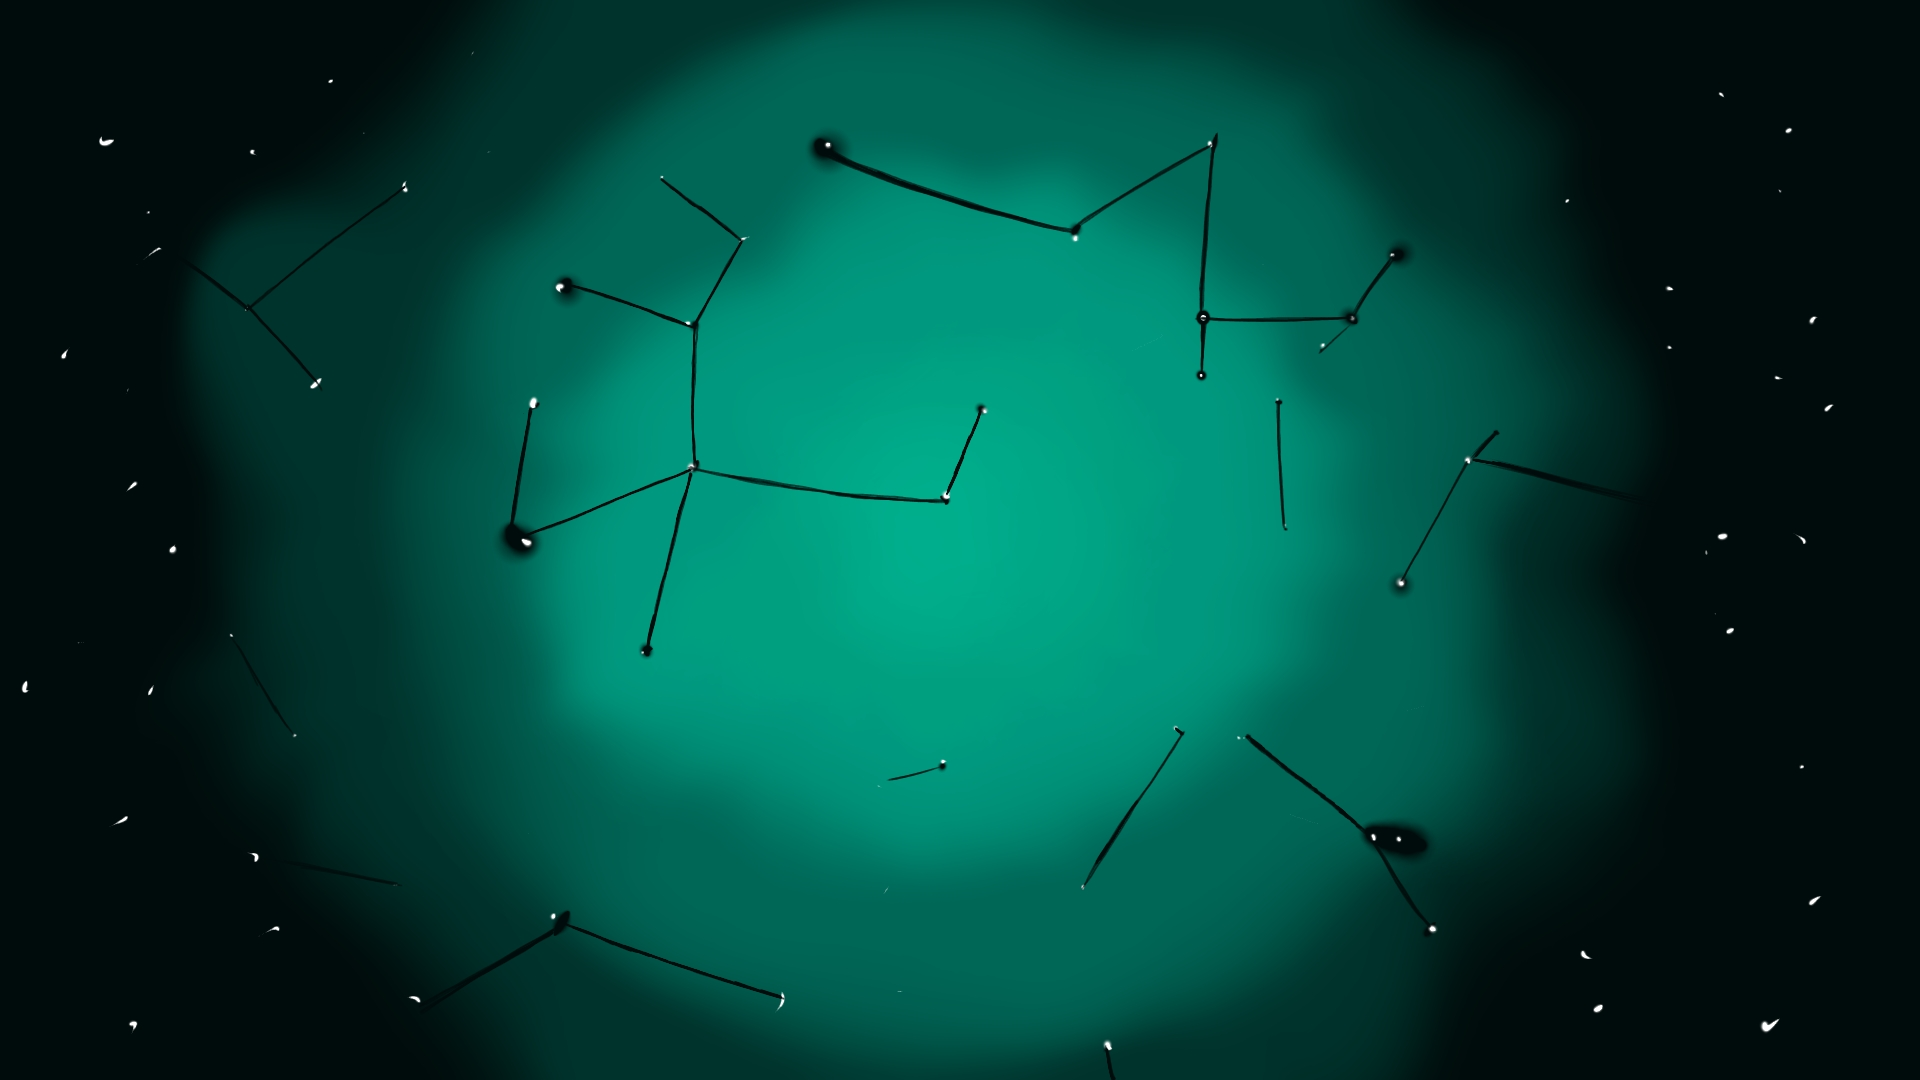
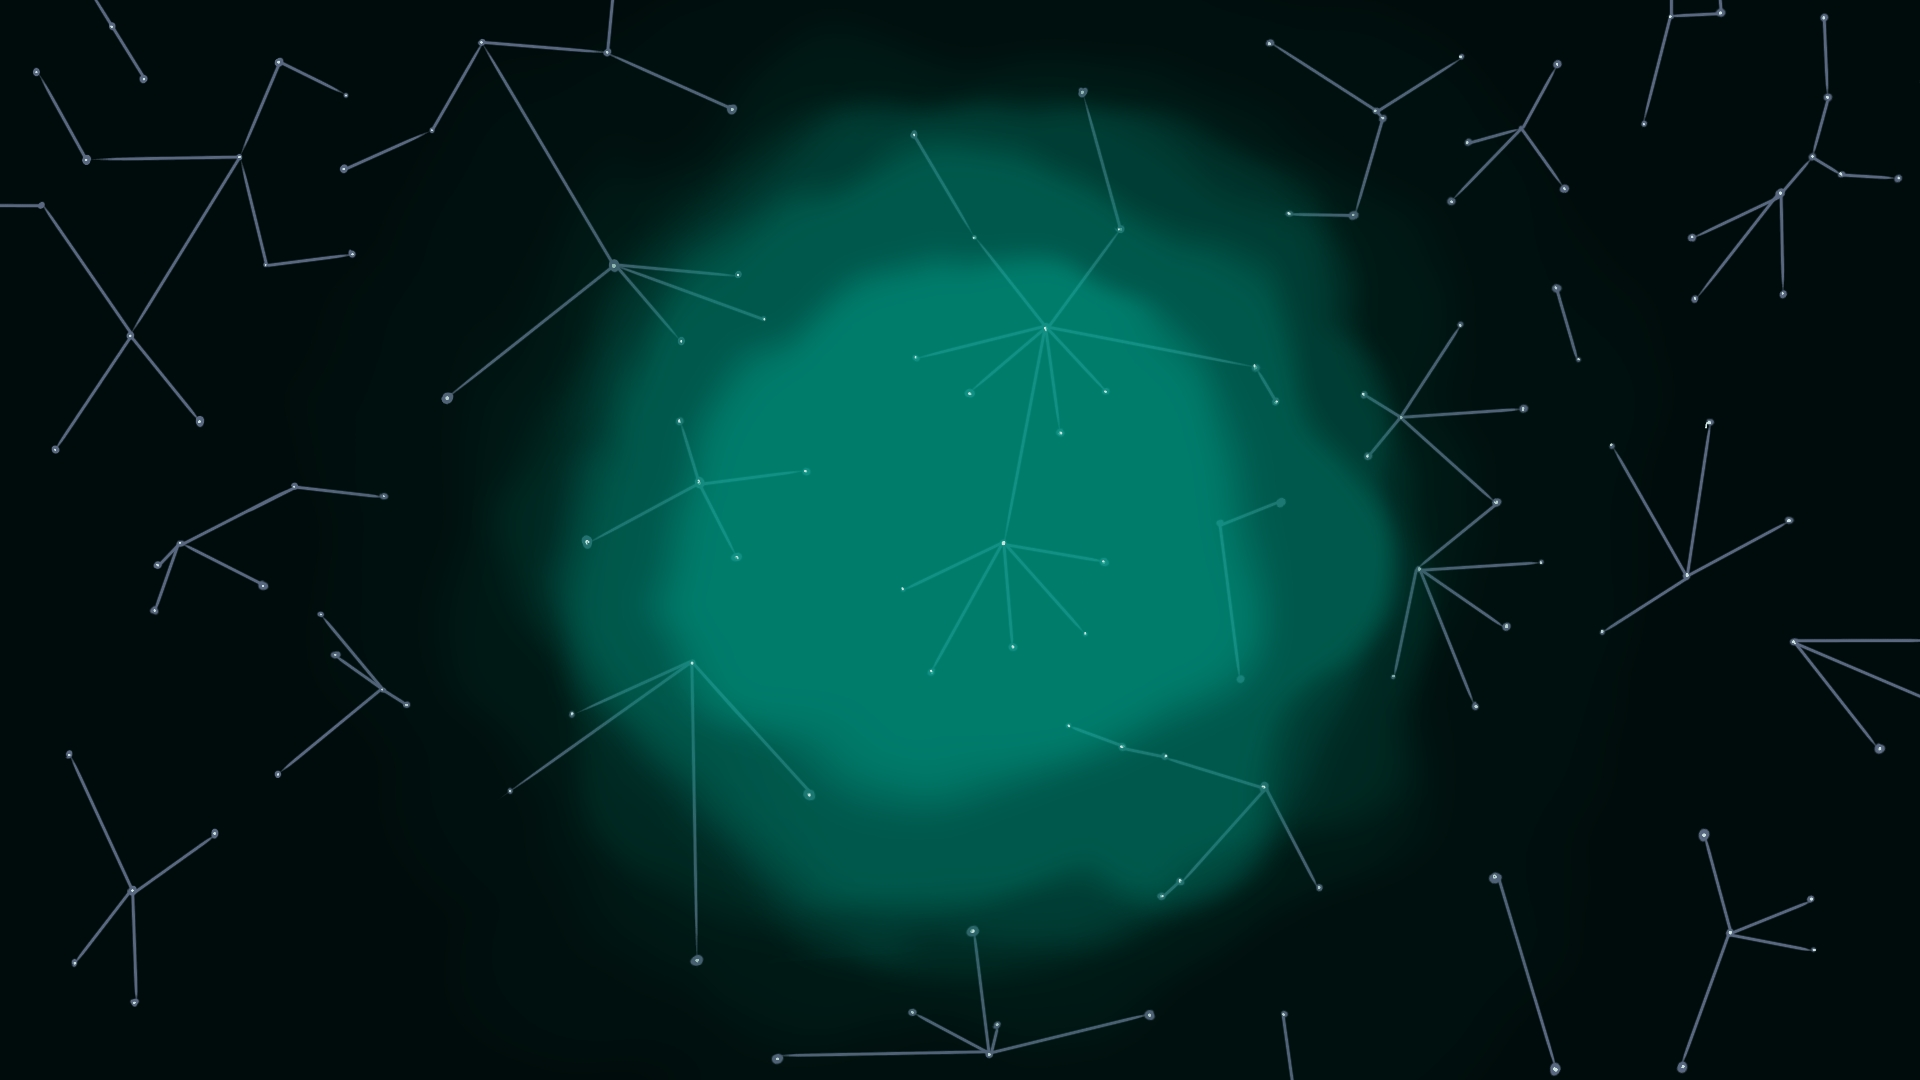
Update background

diff --git a/src/assets/styles/index.css b/src/assets/styles/index.css
@@ -12,8 +12,7 @@ html {
 
 body {
   color: var(--bg-txt-color);
-  /* background: url('/background.jpg'); */
-  background: url('/background2.jpg');
+  background: url('/background.jpg');
   background-size: cover;
   font-family: 'Nunito', 'Roboto', sans-serif;
 }
